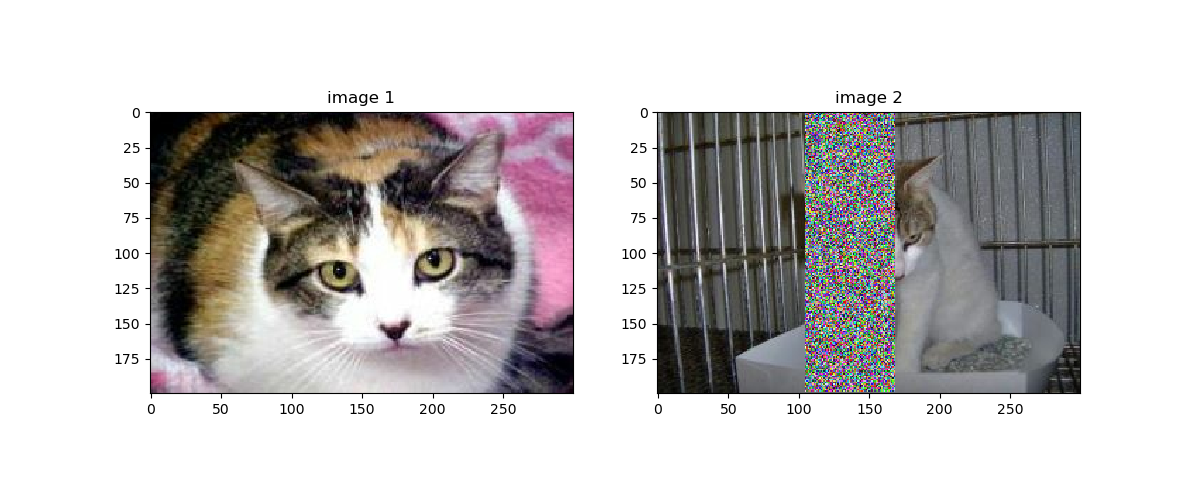
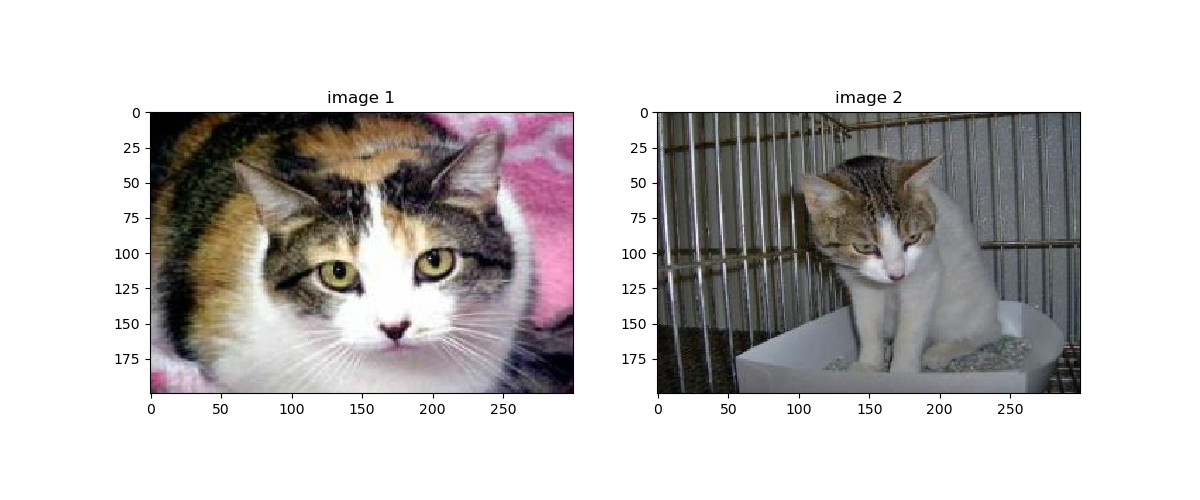
Add argparse
add argparse

Changed region(s): [[0.6475, 0.21, 0.7708, 0.81]]

diff --git a/main.py b/main.py
@@ -2,9 +2,9 @@ import tensorflow as tf
 import os
 import erasing
 import matplotlib.pyplot as plt
-
-import matplotlib.pyplot as plt
 import matplotlib as mpl
+import argparse
+
 mpl.rcParams['figure.figsize'] = (12, 5)
 
 img_dir    = './data'
@@ -14,15 +14,25 @@ img_width    = 300
 img_height   = 200
 img_channels = 3
 
+parser = argparse.ArgumentParser(description='Random Erasing Tensorflow2')
+parser.add_argument('-m', '--method', default='random', type=str, help='choose method (white, black, random)')
+parser.add_argument('-c', '--channels', default=3, type=int, help='Image\'s channel')
+parser.add_argument('-W', '--Width', default=300, type=int, help='Image\'s width')
+parser.add_argument('-H', '--Height', default=200, type=int, help='Image\'s height')
+parser.add_argument('-i','--img_dir', default='./data', type=str, help='Image directory')
+parser.add_argument('-r','--result_dir', default='./result', type=str, help='Save result directory')
+
+args = parser.parse_args()
+
 def dataset_map_function(path):
     path  = tf.io.read_file(path)
     img = tf.io.decode_jpeg(path, channels=img_channels)
     img = tf.image.convert_image_dtype(img, dtype=tf.float32)
     # image 3D Tensor (None, None, 3)
-    img = tf.image.resize(img, [img_height, img_width])
+    img = tf.image.resize(img, [args.Height, args.Width])
     # image 3D Tesnor (img_height, img_width, img_channels)
     
-    img = erasing.random_erasing(img)
+    img = erasing.random_erasing(img, method=args.method)
     return img
 
 def visualize(img1, img2, num):
@@ -34,12 +44,13 @@ def visualize(img1, img2, num):
     plt.subplot(1,2,2)
     plt.title('image 2')
     plt.imshow(img2)
-    plt.savefig(os.path.join(result_dir, str(num)))
+    plt.savefig(os.path.join(args.result_dir, str(num)))
 
 
 if __name__ == '__main__':
-    img_list = os.listdir(img_dir)
-    joined_img_list = [os.path.join(img_dir, path) for path in img_list]
+    
+    img_list = os.listdir(args.img_dir)
+    joined_img_list = [os.path.join(args.img_dir, path) for path in img_list]
 
     dataset = tf.data.Dataset.from_tensor_slices(joined_img_list)
     dataset = dataset.map(dataset_map_function)

diff --git a/erasing.py b/erasing.py
@@ -1,5 +1,4 @@
 import tensorflow as tf
-import math
 
 def random_erasing(img, probability = 0.5, sl = 0.02, sh = 0.4, r1 = 0.3, method = 'random'):
     #Motivated by https://github.com/Amitayus/Random-Erasing-TensorFlow.git

diff --git a/README.md b/README.md
@@ -1,2 +1,73 @@
 # Random-Erasing-Tensorflow2
-Random Erasing Augmentation on Tensorflow2
+Random Erasing Augmentation on Tensorflow2.
+
+This function's purpose is for using map function in tensorflow dataset.
+
+without numpy
+
+
+
+# Tensorflow version
+
+Tensorflow 2.1.0
+
+
+
+# Result
+
+This function has three type method
+
+### **random erasing(white)**
+
+<img src="C:\Users\user\Desktop\Code\Python\Random-Erasing-Tensorflow2\result\white_0.png" alt="white_0" style="zoom:67%;" />
+
+<img src="C:\Users\user\Desktop\Code\Python\Random-Erasing-Tensorflow2\result\white_1.png" alt="white_1" style="zoom: 67%;" />
+
+### random erasing(black)
+
+<img src="C:\Users\user\Desktop\Code\Python\Random-Erasing-Tensorflow2\result\black_0.png" alt="black_0" style="zoom:67%;" />
+
+<img src="C:\Users\user\Desktop\Code\Python\Random-Erasing-Tensorflow2\result\black_1.png" alt="black_1" style="zoom:67%;" />
+
+### random erasing(random)
+
+<img src="C:\Users\user\Desktop\Code\Python\Random-Erasing-Tensorflow2\result\0.png" alt="0" style="zoom:67%;" />
+
+<img src="C:\Users\user\Desktop\Code\Python\Random-Erasing-Tensorflow2\result\1.png" alt="1" style="zoom:67%;" />
+
+# Test
+
+```python
+python test
+```
+
+
+
+
+
+
+
+
+
+
+
+
+
+
+
+
+
+
+
+
+
+
+
+
+
+
+
+
+
+
+
